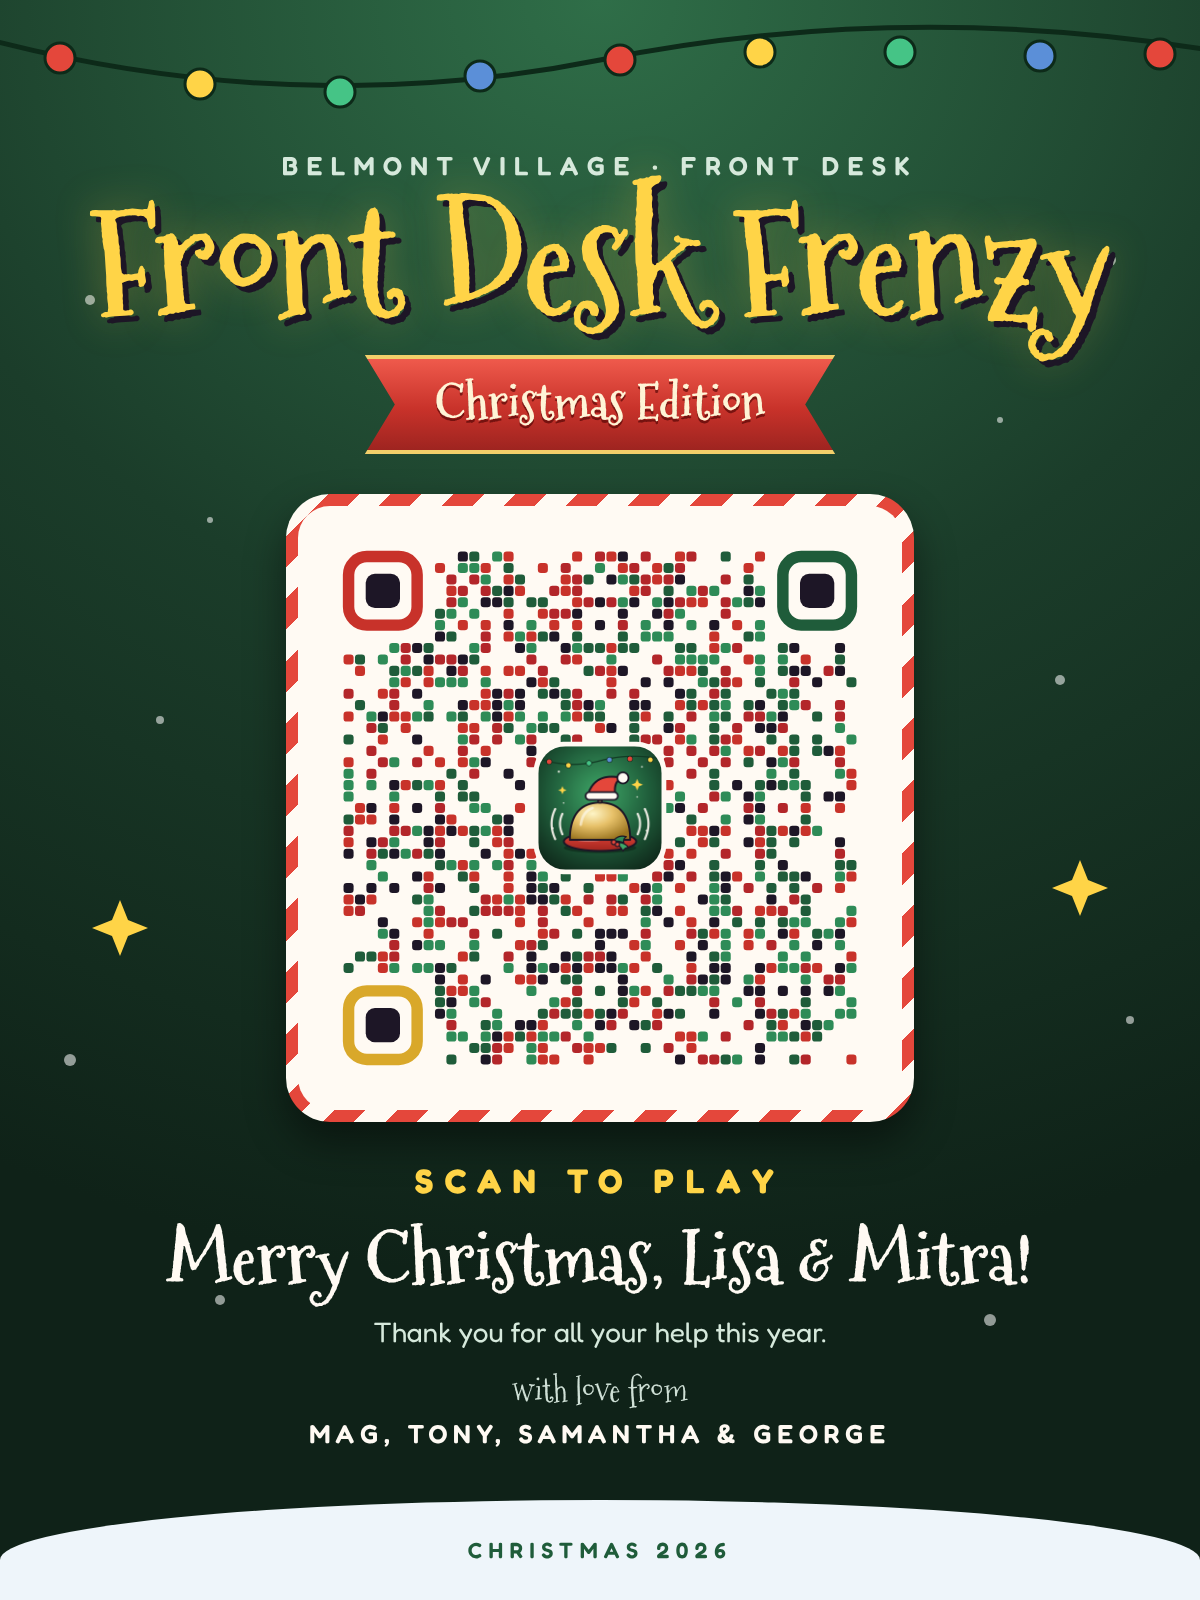
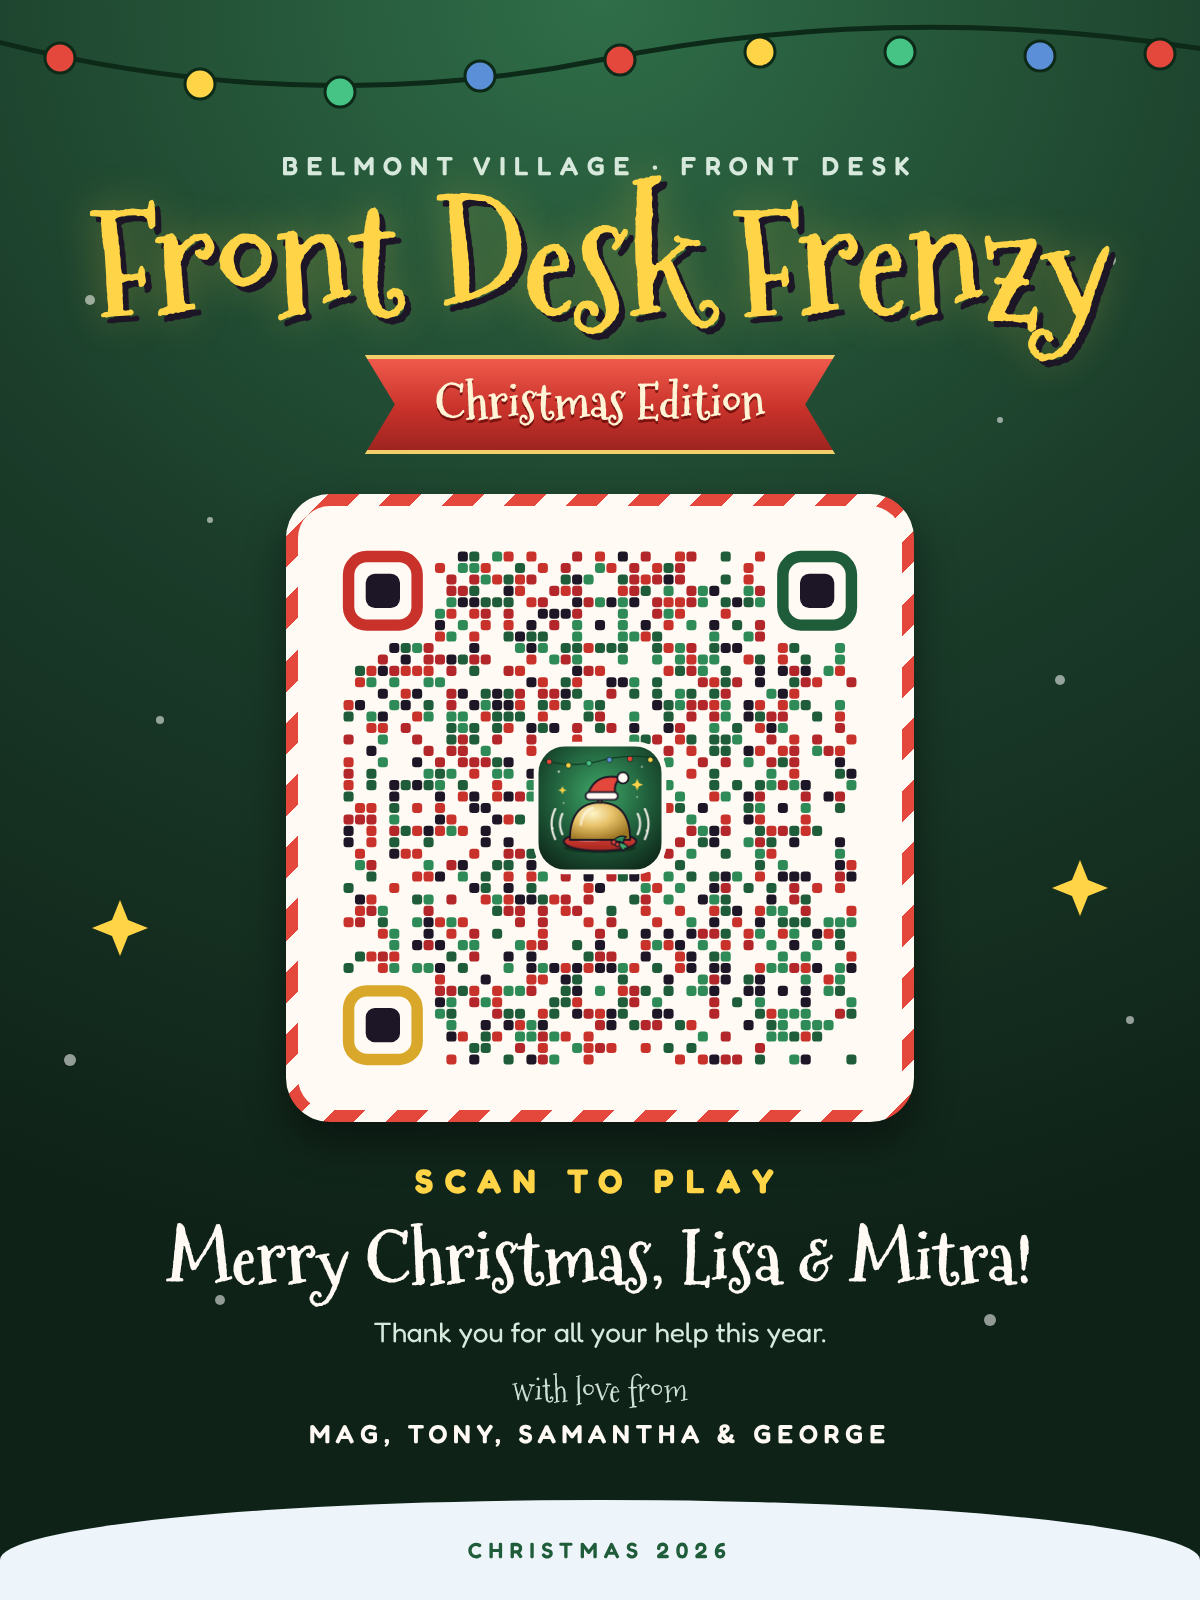
Point the QR codes and README at the live Pages address
Claude-Session: https://claude.ai/code/session_019kFxLWdNKZkWDN6wC9NzxX

Changed region(s): [[0.2775, 0.3438, 0.7092, 0.6875], [0.5858, 0.6562, 0.6167, 0.6875]]

diff --git a/README.md b/README.md
@@ -2,7 +2,7 @@
 
 A Christmas browser game made for Lisa and Mitra at the Belmont Village front desk, with love from Mag, Tony, Samantha and George.
 
-**Play:** https://georgeconstablecreative.github.io/front-desk-frenzy/
+**Play:** https://georgeconstablecreative.github.io/Front-Desk-Frenzy/
 
 Designed for iPhone: open the link in Safari, then Share → **Add to Home Screen** to keep it like an app.
 
